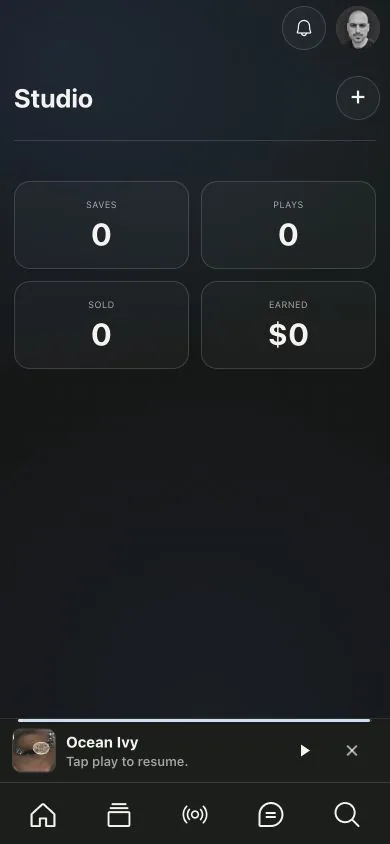
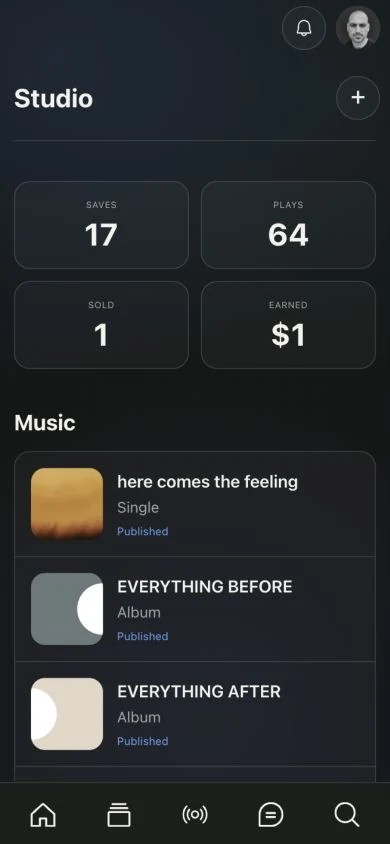
Finalize landing visuals and domain documentation

diff --git a/src/app/marketing-surface/landing.module.css b/src/app/marketing-surface/landing.module.css
@@ -146,9 +146,9 @@
 }
 
 .mobileDevice {
-  right: 0;
-  bottom: 0;
-  width: 24%;
+  right: 1.5%;
+  bottom: 5%;
+  width: 21%;
   aspect-ratio: 390 / 844;
   border: 6px solid #1a1a1a;
   border-radius: 30px;
@@ -247,9 +247,9 @@
   .heroCopy > p { margin: 20px auto 28px; font-size: 18px; }
   .hero .primaryButton { width: 100%; box-sizing: border-box; }
   .heroVisual { margin-top: 48px; }
-  .productMockup { aspect-ratio: 1 / 0.94; }
+  .productMockup { aspect-ratio: 1 / 0.82; }
   .desktopDevice { width: 100%; border-width: 3px; border-radius: 14px; }
-  .mobileDevice { width: 34%; border-width: 4px; border-radius: 22px; }
+  .mobileDevice { right: 1%; bottom: 6%; width: 30%; border-width: 4px; border-radius: 22px; }
   .feature, .featureReverse {
     min-height: 0;
     padding: 64px 0;

diff --git a/src/app/marketing-surface/page.tsx b/src/app/marketing-surface/page.tsx
@@ -31,7 +31,7 @@ const features = [
   {
     eyebrow: 'FOR CREATORS',
     title: 'Publish everything in one place.',
-    body: "Upload music, books, merch, and assets. Set your own prices. Keep what you earn. Fans in your library unlock achievements, receive bonus content, and follow your updates — not an algorithm's version of you.\n\nPayouts go directly to your bank account, wherever you are.",
+    body: "Upload music, books, merch, and assets. Set your own prices. Keep what you earn. Fans in your library unlock achievements, receive bonus content, and follow your updates directly instead of an algorithm's version of you.\n\nPayouts go directly to your bank account, wherever you are.",
     image: '/marketing/studio.webp',
     mobileImage: '/marketing/studio-mobile.webp',
     alt: 'The 44OS Studio dashboard for independent creators.',

diff --git a/Other/44OS_MILESTONES.md b/Other/44OS_MILESTONES.md
@@ -6,9 +6,10 @@ Current system behavior belongs in `44OS_FOUNDATION.md`. Current visual behavior
 
 ## Current position
 
-Recorded July 18, 2026:
+Recorded July 20, 2026:
 
 - 44OS is live and healthy.
+- `44os.com` is now the editorial front door, `app.44os.com` is the canonical application and PWA origin, `www` redirects to the apex, and legacy application links preserve their paths and queries on the app host.
 - The architectural, UI, catalog, digital-commerce, Auth-email, transactional-email, Help Center, metadata, structured-data, and consent foundations described in Foundation/UI are implemented.
 - Public Member signup and eligible digital/physical purchase presentation are active.
 - Eight launch Merch products are live.
@@ -29,40 +30,28 @@ The following areas are represented as current system truth in Foundation and UI
 - Stripe-hosted Checkout, signed webhook authority, immutable terms/order evidence, refund/dispute/access/accounting behavior, Admin offer pause/restore, and zero-mismatch reconciliation.
 - Public Member signup, manual Creator paperwork-grace controls, branded Supabase Auth email, Resend transactional outbox/worker/webhook, monitored support mailbox, and production Help Center.
 - Public metadata, published-only sitemap, structured-data foundation, indexability guards, and inert consent-gated analytics foundation.
+- Permanent two-origin architecture: isolated light marketing layout, canonical app shell/PWA, exact host routing, legacy deep-link and API compatibility, app-origin Auth/Checkout/email links, paired desktop/mobile product screenshots, and the server-only rollback switch.
 - Recorded release gates: schema replay, pgTAP security, linked lint/history, lint, typecheck, UI cleanup audit, hardening/observability/provider contracts, safe-area checks, production build, launch smoke, and diff integrity.
 
 ## Open milestones
 
 Work through this single list. User-facing breakage comes before optional launch expansion. Record only the outcome and changed current truth; do not rebuild a step-by-step historical ledger here.
 
-### 1. Marketing front door and application-origin migration
-
-**Status: Local implementation and compatibility gates complete; awaiting owner copy/visual approval before external configuration**
-
-- The repository now contains a light editorial landing surface for `44os.com` and keeps the existing application shell canonical at `app.44os.com`. The local preview remains available at `/landing-preview`; `MARKETING_SITE_ENABLED` defaults off, and no DNS, Vercel domain, hosted Supabase, Stripe, Resend, Printful, or production environment setting has changed.
-- Host routing preserves query strings, permanently redirects legacy apex application pages to the matching app path, retains apex APIs/webhooks without redirects, redirects `www` to the apex, reserves `/download` as a 404, rejects the internal marketing route, and serves the PWA manifest only from the app host. An exact Auth fragment/query bridge handles already-issued root callbacks without accepting an arbitrary destination.
-- Application and marketing origins are explicit and centralized. Auth actions, Checkout returns, active email links, Resend diagnostics, canonical metadata, robots, sitemap, and provider preflight checks use the new contract. An unapplied forward migration updates newly queued database email actions while preserving applied migrations and historical outbox evidence.
-- The landing page follows the supplied light-paper visual direction, includes only `Open App`, uses paired desktop/mobile product captures for Discover, Library, Community, and Studio, has host-specific metadata and a marketing share image, and loads no app shell, player, authentication, push prompt, analytics consent, or commerce UI.
-- Lint, strict typecheck, production build, UI cleanup audit, launch smoke, domain migration, email, commerce, Printful, hardening, observability, analytics, experience-polish, and mobile safe-area contracts pass. A cutover-enabled local production build also passed apex/app/www redirects, API compatibility, manifest isolation, reserved-route, robots, and legacy deep-link checks.
-- Remaining work is owner approval of the visual/copy—especially Creator payout and ownership statements—followed by the staged Vercel domain, DNS, hosted Supabase Auth, provider webhook, PWA reinstall, push, Search Console, and monitoring rollout described in the approved migration plan.
-
-**Complete when:** both hosts are live under the permanent domain contract, Auth/payment/email/webhook/PWA/push canaries pass, old links remain compatible, the seven-day stabilization window closes, and Foundation/UI are updated from deployed evidence.
-
-### 2. Creator mobile upload and experience reliability
+### 1. Creator mobile upload and experience reliability
 
 **Status: Implementation and automated gates complete; awaiting owner visual/device verification**
 
 - The shared uploader now uses resumable transfer for larger files, explicit iOS-compatible audio types, and lightweight non-blocking duration metadata after the uploaded value is safely retained.
 - Music Release Date, Item Type, and Track Count are required for creation and editing; Item Tags remain optional. All 31 published production Music Items already have a Release Date, and Admin can correct approximate historical dates through an audited control that synchronizes year. Standard release creation offers Album, EP, Single, and Mixtape only, leaving Beat in its dedicated workflow and omitting Live Set. New Sample Packs hide their inferred Item Type plus irrelevant Release Date and Item Tags controls.
 - The requested account-menu, Admin/Support navigation, Store/Library details, Tracklist, and URL-only release-video changes are implemented. Releases support up to ten videos.
-- The Home discovery revision uses `Discover`/`Browse` page identities, a public `New Releases` shelf backed by four ordered Admin Featured slots, and a Recently Added shelf that excludes those selected Items, starts creator-diverse, then fills open slots round-robin from creators with deeper catalogs. A represented creator’s selected release is replaced by their next release in release chronology (for example, MUSES yields to GET OUT). The revision also includes a creator-diverse followed-creator shelf, complete Browse sort controls, explicit Browse shelves for smaller catalogs, and aligned header/section actions. Forward migration `20260719010000_home_featured_shelf.sql` and the application revision were promoted to production on July 19, 2026; owner visual review remains the final acceptance check.
+- Home uses `Discover`/`Browse` page identities, a four-slot Admin-curated `New Releases` shelf, and an eight-item `Recently Added` shelf ordered by stable creation time with New Releases Items excluded. Recently Added intentionally allows multiple releases from the same creator. The revision also includes the followed-creator shelf, complete Browse sort controls, explicit Browse shelves for smaller catalogs, and aligned header/section actions.
 - The current Studio/Radio revision makes free Music streaming and Library collection explicit, makes Book reading and Library collection free, replaces Music and Book Availability dropdowns with optional paid-download checkboxes, requires Sample Packs to have a paid download price, requires release-sort metadata for new Music publication, adds audited Admin corrections for historical release dates, and automatically appends playable tracks to Radio only after their Music Item is published. Forward migrations `20260719020000_auto_radio_and_music_download_controls.sql`, `20260719021000_book_access_and_sample_pack_pricing.sql`, `20260719022000_required_music_release_metadata.sql`, and `20260719023000_admin_release_date_corrections.sql` were promoted to production on July 19, 2026.
 - The focused experience contract, lint, typecheck, UI cleanup audit, local schema replay, local database lint, all 24 pgTAP files with 573 assertions, production build, and launch smoke checks pass.
 - Remaining acceptance is the owner’s signed-in mobile and desktop review, including a real mobile audio selection/upload and the requested UI surfaces.
 
 **Complete when:** the owner confirms the affected real mobile Creator journey and the requested desktop/mobile UI behavior.
 
-### 3. Production account and repository hygiene
+### 2. Production account and repository hygiene
 
 **Status: Repository pass complete; production account deletion remains open and requires exact target verification**
 
@@ -72,7 +61,7 @@ Work through this single list. User-facing breakage comes before optional launch
 
 **Complete when:** the two approved accounts are absent, unrelated production evidence is preserved, only safe reproducible caches are removed, and the repository passes its proportional quality gates.
 
-### 4. Legal and operating facts
+### 3. Legal and operating facts
 
 **Status: Waiting on owner facts/approval**
 
@@ -83,7 +72,7 @@ Work through this single list. User-facing breakage comes before optional launch
 
 **Complete when:** the published legal and operating facts are accurate, owner-approved, internally consistent, and contain no unsupported designation or placeholder business detail.
 
-### 5. External alerts and operational ownership
+### 4. External alerts and operational ownership
 
 **Status: Open**
 
@@ -94,7 +83,7 @@ Work through this single list. User-facing breakage comes before optional launch
 
 **Complete when:** a real production-critical alert reaches the assigned external channel and every operational responsibility has a named owner and backup/escalation path.
 
-### 6. Manual accessibility and device acceptance
+### 5. Manual accessibility and device acceptance
 
 **Status: Partially complete**
 
@@ -107,7 +96,7 @@ The public foundation and available Admin/Creator structure/contrast checks pass
 
 **Complete when:** the role/device matrix passes without a launch-blocking accessibility, layout, or input failure and any narrow repairs are verified on affected surfaces.
 
-### 7. Recovery and storage safety
+### 6. Recovery and storage safety
 
 **Status: Open**
 
@@ -118,7 +107,7 @@ The public foundation and available Admin/Creator structure/contrast checks pass
 
 **Complete when:** the separate-project restore is proven and every candidate object is classified as referenced, intentionally retained, or safely removable with recorded evidence.
 
-### 8. Analytics, search, and Merchant discoverability
+### 7. Analytics, search, and Merchant discoverability
 
 **Status: Foundation deployed; external acceptance open**
 
@@ -133,7 +122,7 @@ The public foundation and available Admin/Creator structure/contrast checks pass
 
 **Complete when:** consented production analytics records representative journeys without direct personal data or duplicate transactions; intended public routes are accepted by search engines; private routes stay excluded; eligible Merch passes Merchant diagnostics; and monitoring/rollback ownership is recorded.
 
-### 9. Final public-launch decision
+### 8. Final public-launch decision
 
 **Status: Owner action; do not execute early**
 
@@ -143,7 +132,7 @@ The public foundation and available Admin/Creator structure/contrast checks pass
 
 **Complete when:** the owner gives the terminal launch instruction, the Creator dates are correctly recorded, and rollback ownership is documented. This action starts the clock and must not be used for closed testing.
 
-### 10. One real physical-commerce lifecycle
+### 9. One real physical-commerce lifecycle
 
 **Status: Waiting for owner-approved funds and timing**
 
@@ -154,7 +143,7 @@ The public foundation and available Admin/Creator structure/contrast checks pass
 
 **Complete when:** the lifecycle ends with zero unexplained payment or fulfillment mismatch and all immutable order/provider evidence is preserved.
 
-### 11. Optional inactive capabilities
+### 10. Optional inactive capabilities
 
 **Status: Deferred; not required while disabled**
 

diff --git a/Other/44OS_FOUNDATION.md b/Other/44OS_FOUNDATION.md
@@ -12,11 +12,12 @@ Read Foundation, then UI, then Milestones before making production-facing change
 
 ## Current production baseline
 
-Recorded July 18, 2026:
+Recorded July 20, 2026:
 
-- `https://44os.com` and `https://www.44os.com` serve the live Vercel application. The latest recorded Ready deployment is `dpl_6kUHQaE67eVAfsLXaLWxEQoGtjQ2`; `/api/health` passed against Supabase.
+- `https://44os.com` is the permanent light editorial front door, `https://www.44os.com` permanently redirects to it, and `https://app.44os.com` is the canonical application origin. All three hosts use the same GitHub-backed Vercel project and release.
+- Legacy apex application paths permanently redirect to the identical path and query on `app.44os.com`. Apex `/api/*` remains a non-public compatibility surface for delayed provider delivery and rollback; it is never redirected. Both host health checks pass against Supabase.
 - The app is Next.js App Router with React 19 and strict TypeScript. Supabase owns authentication and application data; Vercel hosts the app.
-- Linked Supabase history contains the reviewed forward migration chain through `20260718011000_m15_paid_book_download_access.sql`. Never rewrite an applied migration; add a reviewed forward migration.
+- Linked Supabase history contains the reviewed forward migration chain through `20260720060000_application_origin_email_links.sql`. Never rewrite an applied migration; add a reviewed forward migration.
 - The latest recorded full database gate passed clean replay, linked lint, and 22 pgTAP files with 543 assertions. Lint, strict typecheck, production build, launch smoke, mobile safe-area checks, analytics contract, commerce contract, hardening contract, and `git diff --check` also passed for the recorded release.
 - Public Member signup and eligible purchase presentation are enabled. Creator promotion, paid-sale eligibility, fulfillment confirmation, and payout eligibility remain server-authoritative.
 - Two controlled low-value digital orders completed the live payment/refund path. The latest Admin reconciliation checked both orders with zero mismatches. Refunded access was revoked without deleting order or Library history.
@@ -27,7 +28,7 @@ Recorded July 18, 2026:
 - The internal sanitized operational-error sink and Admin Errors view are active. Proven external alert delivery and distinct primary/backup responders are not yet assigned.
 - Wise payout infrastructure exists but batching, operator recording, reconciliation, and payout execution remain disabled; the payout emergency stop remains on.
 - Licensed Beats, creator Merch, international physical shipping, automated Printful confirmation, newsletters, and interactive runtime Items remain disabled or deferred.
-- The working tree intentionally contains the current multi-phase release as uncommitted changes on `main` after checkpoint `da0f2cbf`. Do not reset, clean, discard, broadly reformat, stage, commit, or rewrite this work without explicit owner direction.
+- Production releases flow through GitHub `main` into the linked Vercel project. Direct Vercel rebuilds may apply a reviewed environment revision to the same GitHub commit, but source changes must still be committed and pushed through GitHub.
 
 Open launch work belongs only in `44OS_MILESTONES.md`. Do not repeat an accepted production journey unless relevant code, configuration, provider state, or evidence changed.
 
@@ -39,7 +40,7 @@ Open launch work belongs only in `44OS_MILESTONES.md`. Do not repeat an accepted
 
 Primary applications:
 
-- **Home** — the `Discover` front door at `/`; active catalog filtering changes its workspace identity to `Browse`.
+- **Home** — the application `Discover` front door at `https://app.44os.com/`; active catalog filtering changes its workspace identity to `Browse`.
 - **Store** — public discovery and acquisition at `/store`.
 - **Library** — the signed-in user’s saved, owned, purchased, and unlocked Items.
 - **Community** — posts, questions, collaboration, replies, follows, and creator/fan connection.
@@ -70,8 +71,9 @@ Core principles:
 - Framework: Next.js App Router, React 19, strict TypeScript.
 - Styling: `src/app/globals.css` plus `src/styles/44-ui/canonical-system.css`, using `--os-*` tokens.
 - Backend: Supabase via `@supabase/supabase-js`.
-- Deployment: Vercel, canonical origin `https://44os.com`.
-- Root shell: `src/app/layout.tsx`.
+- Deployment: one Vercel project with explicit origins `https://44os.com` (marketing) and `https://app.44os.com` (application).
+- Host routing: `src/proxy.ts` owns marketing/app selection, permanent legacy redirects, API exemptions, reserved routes, and the server-only `MARKETING_SITE_ENABLED` rollback switch.
+- Root layout: `src/app/layout.tsx` selects an isolated marketing or application layout from the trusted host-routing header. The marketing branch must never load the application shell, player, authentication state, push prompt, analytics consent, or commerce UI.
 - App/navigation registry: `src/lib/osApps.ts`.
 - Store routes: `src/lib/experience.ts` and `src/lib/storeRoutes.ts`.
 - Library routes: `src/lib/libraryRoutes.ts`.
@@ -113,7 +115,7 @@ Playback rules:
 
 ## Canonical routes
 
-Public:
+Public application routes below are canonical on `https://app.44os.com`:
 
 - `/` — `Discover` front door; active catalog filtering uses the `Browse` workspace identity and the route does not redirect.
 - `/store` and `/store/[category]` — Store and Music, Books, Sample Packs, or Merch categories.
@@ -132,7 +134,7 @@ Signed in:
 - `/launch/[itemId]` for an enabled interactive build.
 - `/admin` and its bounded operational routes for administrators.
 
-Compatibility redirects are centralized in `next.config.ts` and must go directly to one canonical destination. Current compatibility includes Browse to Store, Collection to Library, Product to Store Item, Dashboard to Studio, Assets to Sample Packs, and old category routes to their Store equivalents. Removed Resources and Services/Projects routes intentionally return not found.
+Path-level compatibility redirects are centralized in `next.config.ts` and must go directly to one canonical destination. Host-level compatibility belongs in `src/proxy.ts`: apex application pages preserve path/query while moving to the app origin, `www` moves to the apex, `/api/*` stays executable on both hosts, and marketing `/download` remains reserved/not found until real installers exist. Current path compatibility includes Browse to Store, Collection to Library, Product to Store Item, Dashboard to Studio, Assets to Sample Packs, and old category routes to their Store equivalents. Removed Resources and Services/Projects routes intentionally return not found.
 
 Private routes, previews, Admin, Studio, Library, Checkout, Orders, launch sessions, and protected asset URLs must not become search results.
 
@@ -211,8 +213,8 @@ Supabase Auth sends branded account mail through Resend:
 
 - Visible sender: `44OS <[email redacted]>`.
 - Authorization/link domain: `auth.44os.com`.
-- Canonical Site URL: `https://44os.com`.
-- Allowed redirects: localhost development, `https://44os.com/**`, and `https://www.44os.com/**`.
+- Canonical Site URL: `https://app.44os.com`.
+- Allowed redirects: localhost development, exact application root/Settings/recovery destinations, and temporary legacy apex/`www` compatibility destinations.
 - Email confirmation and secure two-address email change are enabled.
 - Custom SMTP uses `smtp.resend.com:465`; Auth is limited to 30 emails/hour.
 - OTPs are eight digits and expire after 3,600 seconds.
@@ -232,6 +234,7 @@ Application email uses a separate durable outbox and Resend adapter as `support@
 - Transactional delivery is enabled and accepted for the recorded purchase/refund messages.
 - `[email redacted]` is the human support channel. The in-app support intake remains disabled and must not be presented as active.
 - Newsletter consent is explicit, independently revocable, and locally authoritative. Newsletter synchronization and delivery remain disabled.
+- Newly generated application and Admin email actions use `https://app.44os.com`. Previously generated links remain valid through permanent apex deep-link redirects.
 
 ## Buyer payments and physical fulfillment
 
@@ -245,6 +248,7 @@ Stripe receives all customer money. Checkout is authenticated, Stripe-hosted, an
 - U.S. physical shipping uses the approved `$14.99 USD` Standard Shipping rate and estimated 5–10 business-day window.
 - Automatic tax uses separate configured product tax codes for Books, Music, Sample Packs, clothing, hats, and bags.
 - Digital refunds revoke current file access while retaining order, accounting, and Library history.
+- Checkout success/cancellation returns use the app origin. The canonical Stripe webhook is registered on `app.44os.com` with the previous apex signing secret retained during the compatibility overlap; the signed handler accepts the bounded current/previous secret set.
 
 Stripe Dashboard Products/Prices are not catalog authority. The server sends verified dynamic price data from the 44OS order snapshot.
 
@@ -309,11 +313,12 @@ Migration releases additionally require a fresh backup, linked dry run, strict l
 
 `supabase/migrations/20260712010000_44os_item_baseline.sql` is the canonical replayable starting point and must not be edited after adoption. Every later database change is a timestamped forward migration. `supabase/seed.sql` intentionally contains no production accounts or content; local replay verifies structure and security without copying live user data.
 
-After deployment, run launch smoke against `https://44os.com` and manually verify only the journeys affected by the change. Do not repeat every historical journey for unrelated UI work.
+After deployment, run the marketing host matrix against `https://44os.com`, launch smoke against `https://app.44os.com`, and manually verify only the journeys affected by the change. Do not repeat every historical journey for unrelated UI work.
 
 Operational rules:
 
-- `/api/health` is the bounded application/Supabase readiness endpoint.
+- `/api/health` is the bounded application/Supabase readiness endpoint and remains available on both origins during the compatibility period.
+- Origin-local login state, service workers, PWA installation, push subscriptions, Studio draft recovery, Cart, player queue, and preferences do not transfer across the apex-to-app move. Existing PWA users reinstall from `app.44os.com` and re-enable notifications; server-backed accounts, content, Library entries, purchases, messages, and entitlements are unaffected.
 - `src/instrumentation.ts` and the service-only error sink record sanitized release/runtime/route/error identity. Never record headers, query values, request bodies, user content, credentials, or tokens.
 - Authentication incidents start with Supabase Auth health, redirects, rate limits, SMTP, and recovery. Never request passwords, OTPs, or session links.
 - Publishing/storage incidents preserve permanent Items and protected access. Never repair by hard-deleting an Item or making private files public.

diff --git a/Other/44OS_UI.md b/Other/44OS_UI.md
@@ -6,7 +6,7 @@ Architecture and provider rules live in `44OS_FOUNDATION.md`. Current work lives
 
 ## Experience standard
 
-44OS should feel like a premium creative operating system: calm, tactile, spatially consistent, legible, and fast. It is not a marketing landing page, generic dashboard, theme demo, or collection of unrelated pages.
+The application at `app.44os.com` should feel like a premium creative operating system: calm, tactile, spatially consistent, legible, and fast. It is not a generic dashboard, theme demo, or collection of unrelated pages. The public editorial front door at `44os.com` is intentionally a separate marketing surface described below.
 
 Every shipped screen must provide:
 
@@ -18,18 +18,18 @@ Every shipped screen must provide:
 - Legible theme-aware contrast without making disabled controls look active.
 - Stable image ratios, control sizes, and content rhythm while data loads.
 - The same action, material, and component behavior everywhere it appears.
-- Full support for light/dark signed-in themes; signed-out presentation remains dark with Ocean accent.
+- Full support for light/dark signed-in application themes; signed-out application presentation remains dark with Ocean accent. The marketing origin always uses its light editorial palette.
 
 Technology should be explained through user outcomes. A creator should know what to do next without understanding the schema, entitlement engine, provider APIs, or achievement evaluator. A fan should understand what an Item is, what is free, what is purchased, and what remains in Library history.
 
 ## Visual system
 
-The production cascade is limited to:
+The application cascade is limited to:
 
 - `src/app/globals.css`
 - `src/styles/44-ui/canonical-system.css`
 
-`/44OS_UI` is the responsive living registry for current components, tokens, and classes. Do not restore retired proposal stylesheets, page-specific visual systems, legacy Glass wrappers, or copied desktop/mobile reference routes.
+`/44OS_UI` is the responsive living registry for current application components, tokens, and classes. The isolated marketing page uses one scoped CSS module and does not import the application shell or create another in-app component system. Do not restore retired proposal stylesheets, page-specific application visual systems, legacy Glass wrappers, or copied desktop/mobile reference routes.
 
 Base spacing is 4px. Preferred spacing tokens are 4, 8, 12, 16, 20, 24, 32, 40, 48, and 64px. Use shared containers and tokens before local margins or inline styles.
 
@@ -48,6 +48,16 @@ Typography rules:
 - Labels use primary ink; descriptions and metadata use secondary ink; placeholder ink stays inside controls.
 - Detail rows use primary labels and secondary values.
 - Store Item pages render a plain-text Product Details section only for relevant facts: release date, category, type, tags, track count and total length, page count, or sample count. Library Item pages omit this section.
+
+## Marketing front door
+
+`44os.com` is a light editorial page, not an application workspace. It uses a warm paper background, near-black ink, the system font stack, an 8px editorial layout rhythm, pill-shaped actions, and large concise headings. It does not use gradients, Glass, decorative shapes, external fonts, the dark application shell, Dock, Topbar, player, push prompt, account state, analytics consent, or commerce presentation.
+
+The first release exposes only `Open App`, linking to `https://app.44os.com`. Download navigation and `44os.com/download` remain absent until signed desktop installers exist. Footer links route Community, Support, and legal destinations to the app origin; Contact uses `[email redacted]`.
+
+Marketing product visuals use approved real application screenshots rather than fabricated UI. Each visual pairs a 1280×800 desktop WebP with a 390×844 mobile WebP inside a restrained desktop-and-phone composition. The phone is a smaller foreground accent, lifted above the lower edge so it communicates multi-platform support without lengthening the page. Images load directly and eagerly because they are already optimized; a black lazy placeholder is not an accepted state. The social share image is 1200×630 PNG. Screenshots must exclude private messages, email addresses, payment data, unpublished work, and other personal information.
+
+Marketing copy uses plain direct sentences. Do not use em dashes as a stylistic substitute for punctuation. Claims about ownership, earnings, payouts, or platform availability must match live capability and owner-approved legal language.
 
 ## Materials and elevation
 
@@ -112,7 +122,7 @@ The shell—not individual pages—owns mobile safe areas, Topbar, player, and D
 
 ## Page identity and information architecture
 
-- `/` is `Discover` at rest, not Store, even though it reuses catalog data and sections. Its page identity changes to `Browse` whenever a category or filter is active and returns to `Discover` when that state is cleared.
+- `https://app.44os.com/` is `Discover` at rest, not Store, even though it reuses catalog data and sections. Its page identity changes to `Browse` whenever a category or filter is active and returns to `Discover` when that state is cleared. `https://44os.com/` is the editorial landing page and never renders the application shell.
 - `/store` is `Store`.
 - Primary page titles do not include archived explanatory taglines.
 - Mobile Store, Library, and Community hubs use title plus a circular local-filter action. They do not render local search inputs; global Search is in the mobile Dock.
@@ -139,9 +149,9 @@ Artwork ratios are format-specific:
 
 Public Music/Books ordering is release year newest-first, then creator alphabetically, with stable catalog/date tie-breakers. Studio management lists remain creation-date newest-first. Merch always uses `catalog_items.sort_order` with deterministic fallbacks.
 
-Home discovery uses compact four-Item shelves. `New Releases` appears first and follows the exact four-slot order saved through the Admin Home Featured controls; only currently published Music releases render, so an unavailable selection fails closed instead of receiving an algorithmic substitute. `Recently Added` follows and orders creator groups by stable Item creation time. New Releases Items are excluded completely: each creator first contributes one available release, creators whose selected New Release occupies their newest position use their next release by release chronology, and any remaining shelf slots are filled round-robin from represented creators with additional non-selected releases. A creator with no other eligible release is omitted, so the shelf may show fewer than four only when the eligible catalog itself has fewer than four Items. `Creators You Follow` still shows no more than one Item per followed creator. Smaller catalogs use `Browse Books`, `Browse Sample Packs`, and `Browse Merch`; the Merch shelf retains its curated catalog order.
+Home discovery begins with the four-item `New Releases` shelf in the exact order saved through Admin Home controls; only currently published Music releases render, so an unavailable selection fails closed. `Recently Added` follows with up to eight eligible Music releases in stable Item creation-time order, newest first. Items already present in New Releases are excluded, but Recently Added does not deduplicate creators or substitute by creator. This intentionally lets a newly active creator’s current uploads appear together. `Creators You Follow` shows no more than one Item per followed creator. Smaller catalogs use `Browse Books`, `Browse Sample Packs`, and `Browse Merch`; the Merch shelf retains its curated catalog order.
 
-Browse filters begin with `Sort by`. `Release date` uses public release chronology, while `Recently added` uses stable Item creation time and never bumps an edited Item. The New Releases arrow opens the complete Music catalog in release-date order; the Recently Added arrow opens the complete Music catalog in creation-time order. Admin curation and Home-only creator deduplication never remove Items from Browse. Shared section arrows are vertically centered on their title row, and the desktop Store/Home filter action aligns to the Topbar action column.
+Browse filters begin with `Sort by`. `Release date` uses public release chronology, while `Recently added` uses stable Item creation time and never bumps an edited Item. The New Releases arrow opens the complete Music catalog in release-date order; the Recently Added arrow opens the complete Music catalog in creation-time order. Admin curation and Home-only Featured exclusion never remove Items from Browse. Shared section arrows are vertically centered on their title row, and the desktop Store/Home filter action aligns to the Topbar action column.
 
 Admin Home provides four numbered Featured slots. Published non-Beat Music releases are selectable, slot order is public order, duplicates are unavailable, and later slots require the previous slot. Saving is one confirmed mutation with a required audit reason, pending state, success state, authoritative refetch, and immutable before/after history. If a selected Item later becomes unavailable, Admin identifies it for replacement while public discovery simply omits it.
 